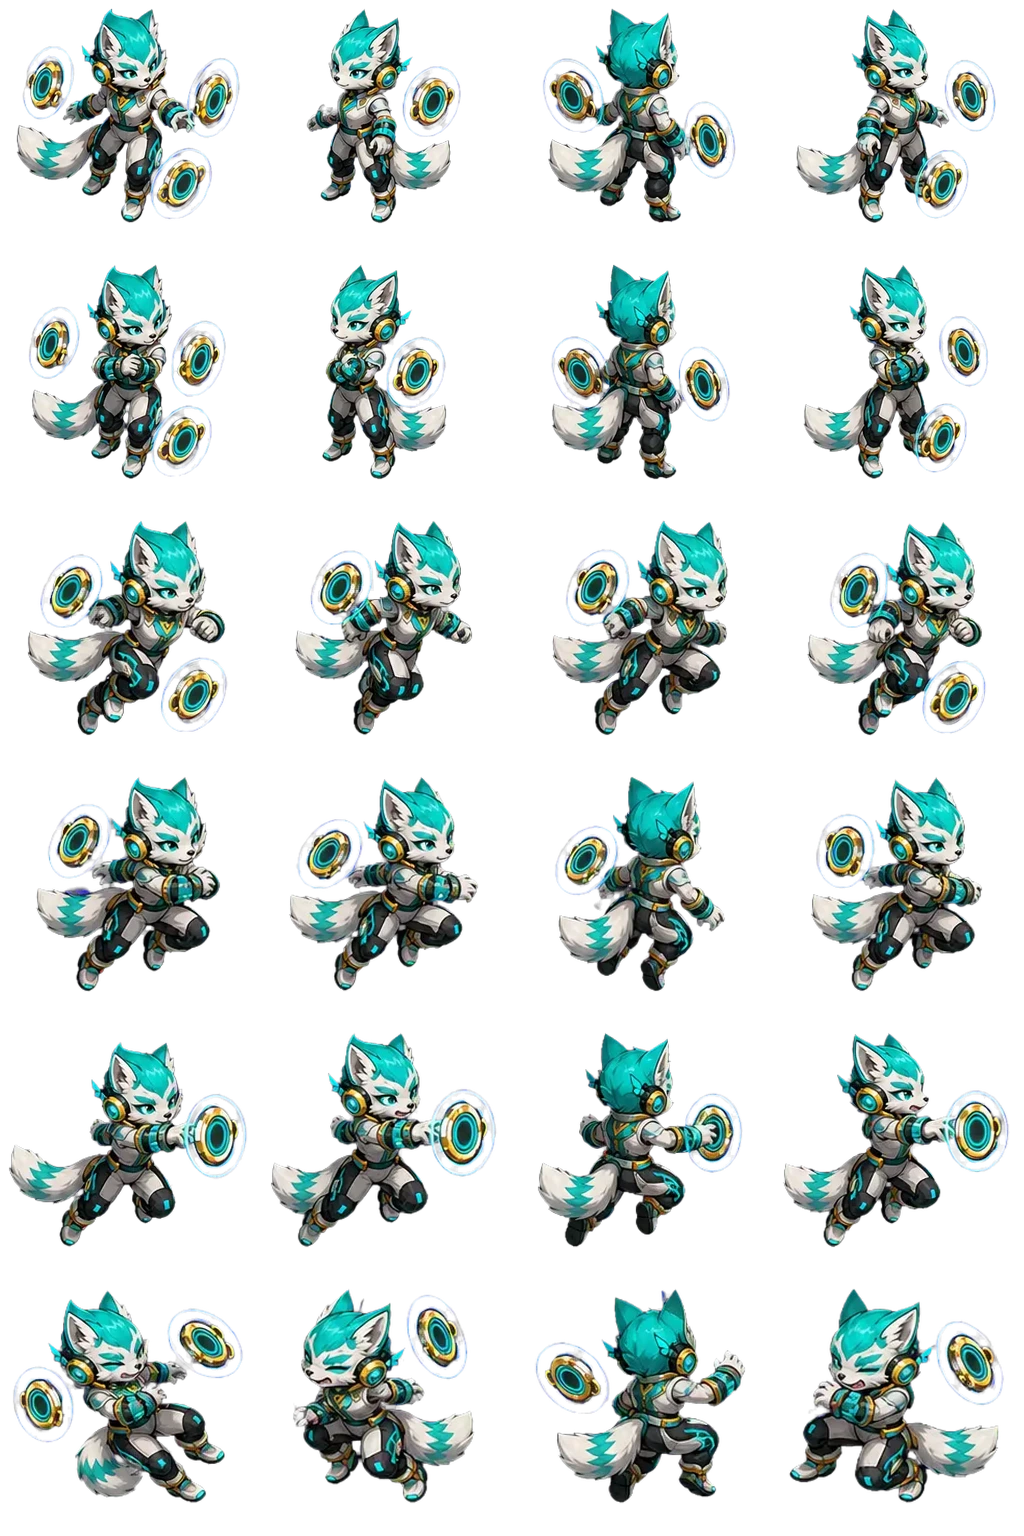
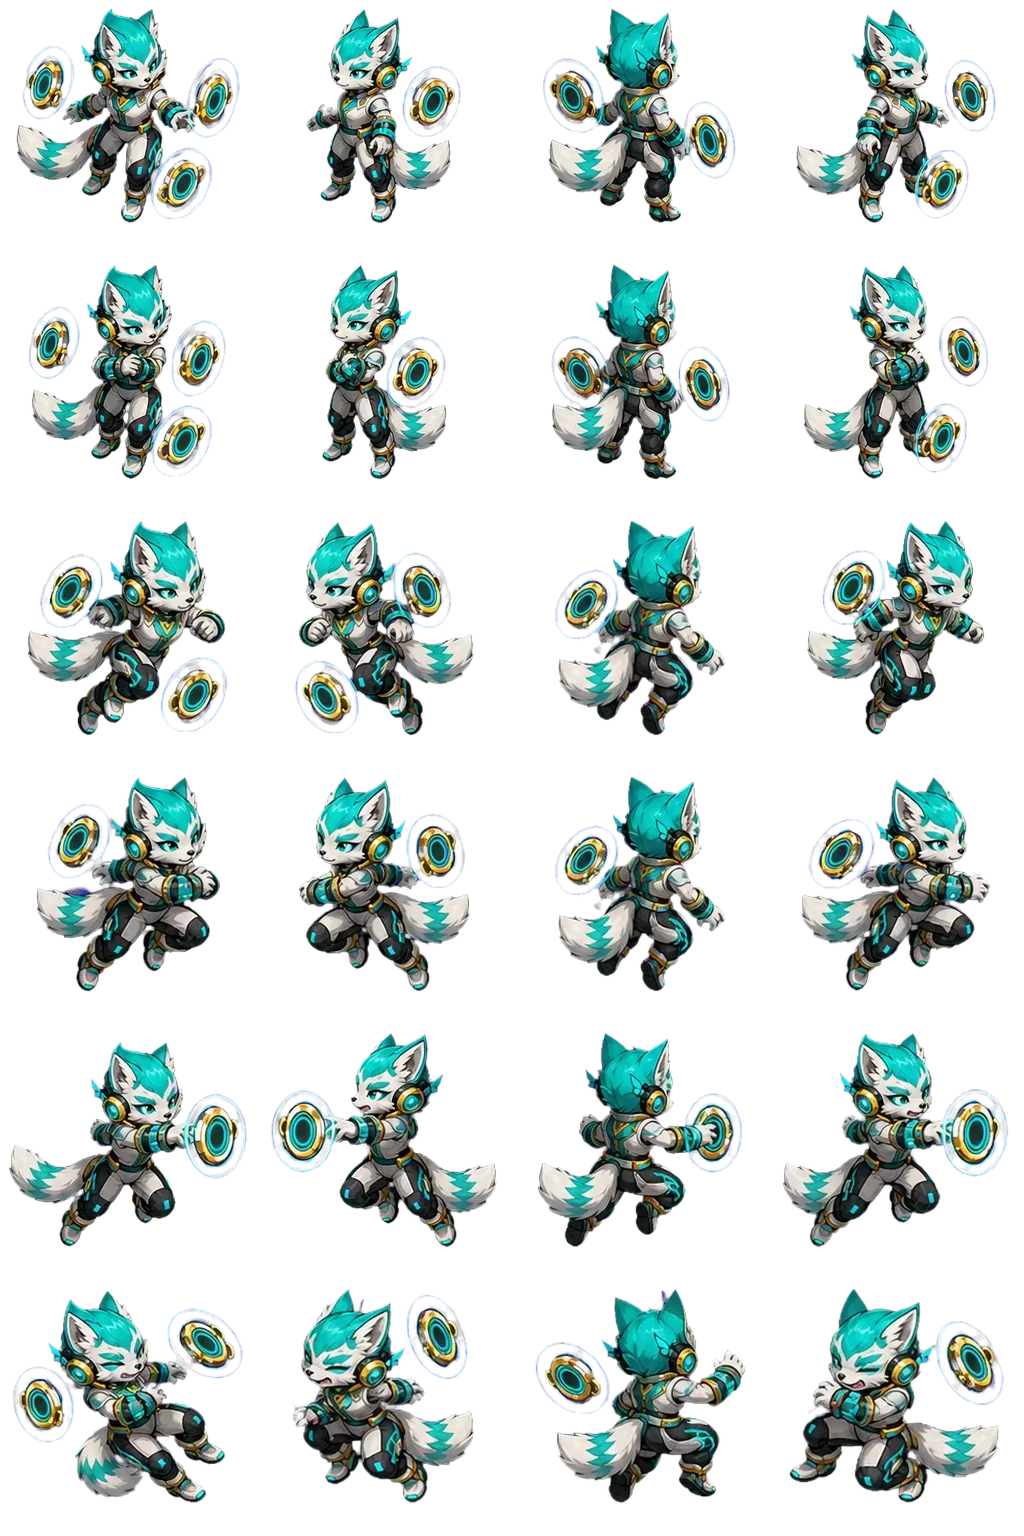
Correct Echo and Vesper direction semantics

diff --git a/lastlight/tooling/tests/test_motion_atlas_tool.py b/lastlight/tooling/tests/test_motion_atlas_tool.py
@@ -1,4 +1,5 @@
 import hashlib
+import json
 import tempfile
 import unittest
 from pathlib import Path
@@ -55,6 +56,9 @@ def atlas_record(root, rows, touching=False):
         "output": {"path": "assets/output.webp", "pixelSha256": "0" * 64, "width": 1024, "height": rows * 256},
         "directions": list(tool.DIRECTIONS),
         "states": states,
+        "sourceSlots": [[0, 1, 2, 3] for _row in range(rows)],
+        "sourceRows": {},
+        "flipX": [],
         "anchor": [.5, .875],
     }
 
@@ -100,6 +104,55 @@ class MotionAtlasNormalizationTests(unittest.TestCase):
             atlas = atlas_record(root, 6, touching=True)
             with self.assertRaisesRegex(tool.MotionAtlasError, "touching"):
                 tool.build_atlas(root, atlas, NORMALIZATION)
+
+    def test_source_slot_overrides_reorder_semantics_without_moving_rows(self):
+        with tempfile.TemporaryDirectory() as directory:
+            root = Path(directory)
+            atlas = atlas_record(root, 5)
+            atlas["sourceSlots"][2] = [0, 3, 2, 1]
+            output, frames, _segmentation = tool.build_atlas(root, atlas, NORMALIZATION)
+            west = output.crop((256, 2 * 256, 512, 3 * 256))
+            east = output.crop((3 * 256, 2 * 256, 4 * 256, 3 * 256))
+            source_west = (30 + 2 * 25, 40 + 1 * 40, 210 - 2 * 20)
+            source_east = (30 + 2 * 25, 40 + 3 * 40, 210 - 2 * 20)
+            self.assertIn(source_east, {pixel[:3] for pixel in west.get_flattened_data() if pixel[3] == 255})
+            self.assertIn(source_west, {pixel[:3] for pixel in east.get_flattened_data() if pixel[3] == 255})
+            self.assertEqual(frames[2 * 4 + 1]["sourceSlot"], 3)
+            self.assertEqual(frames[2 * 4 + 3]["sourceSlot"], 1)
+
+    def test_source_row_reuse_and_mirroring_are_explicit_and_deterministic(self):
+        with tempfile.TemporaryDirectory() as directory:
+            root = Path(directory)
+            atlas = atlas_record(root, 5)
+            atlas["sourceRows"]["pose-1.north"] = 3
+            atlas["flipX"].append("pose-1.west")
+            output, frames, _segmentation = tool.build_atlas(root, atlas, NORMALIZATION)
+            north = output.crop((2 * 256, 1 * 256, 3 * 256, 2 * 256))
+            reused_color = (30 + 3 * 25, 40 + 2 * 40, 210 - 3 * 20)
+            self.assertIn(reused_color, {pixel[:3] for pixel in north.get_flattened_data() if pixel[3] == 255})
+            self.assertEqual(frames[1 * 4 + 2]["sourceRow"], 3)
+            self.assertEqual(frames[1 * 4 + 1]["flipX"], True)
+
+    def test_manifest_rejects_incomplete_or_duplicate_source_slot_maps(self):
+        manifest_path = Path(__file__).resolve().parents[1] / "motion-atlas-manifest.json"
+        manifest = json.loads(manifest_path.read_text(encoding="utf-8"))
+        manifest["atlases"][0]["sourceSlots"][0] = [0, 1, 1, 3]
+        with self.assertRaisesRegex(tool.MotionAtlasError, "permutation"):
+            tool.validate_manifest(manifest)
+
+    def test_production_direction_overrides_pin_echo_and_vesper_semantics(self):
+        manifest_path = Path(__file__).resolve().parents[1] / "motion-atlas-manifest.json"
+        manifest = json.loads(manifest_path.read_text(encoding="utf-8"))
+        atlases = {atlas["id"]: atlas for atlas in manifest["atlases"]}
+        echo = atlases["echo"]
+        self.assertEqual(echo["sourceSlots"][2], [0, 3, 2, 1])
+        self.assertEqual(echo["sourceRows"], {"run-a.north": 3})
+        self.assertEqual(echo["flipX"], ["run-a.west", "run-b.west", "action.west"])
+        vesper = atlases["vesper"]
+        self.assertEqual(vesper["sourceSlots"][0], [0, 3, 2, 1])
+        self.assertEqual(vesper["sourceSlots"][1], [0, 3, 2, 1])
+        self.assertEqual(vesper["sourceSlots"][3], [0, 3, 2, 1])
+        self.assertEqual(vesper["flipX"], ["run-a.west", "run-b.west", "action.west", "hurt-down.west"])
 
     def test_webp_encoding_is_repeatable_and_preserves_alpha_gutters(self):
         with tempfile.TemporaryDirectory() as directory:

diff --git a/lastlight/tooling/motion_atlas_tool.py b/lastlight/tooling/motion_atlas_tool.py
@@ -94,7 +94,7 @@ def validate_manifest(manifest):
     ids, sources, outputs, runtime_keys = set(), set(), set(), set()
     for index, atlas in enumerate(atlases):
         label = f"manifest.atlases[{index}]"
-        exact(atlas, ["id", "kind", "source", "output", "rows", "directions", "states", "anchor"], label)
+        exact(atlas, ["id", "kind", "source", "output", "rows", "directions", "states", "sourceSlots", "sourceRows", "flipX", "anchor"], label)
         fail(isinstance(atlas["id"], str) and atlas["id"].replace("-", "").isalnum() and atlas["id"] == atlas["id"].lower(), f"{label}.id is invalid")
         fail(atlas["kind"] in ["specialist", "enemy", "boss"], f"{label}.kind is invalid")
         fail(isinstance(atlas["rows"], int) and atlas["rows"] in [5, 6], f"{label}.rows must be 5 or 6")
@@ -102,6 +102,16 @@ def validate_manifest(manifest):
         states = atlas["states"]
         fail(isinstance(states, list) and len(states) == atlas["rows"] and len(set(states)) == len(states), f"{label}.states must uniquely name every row")
         fail(all(isinstance(state, str) and state and state == state.lower() for state in states), f"{label}.states are invalid")
+        source_slots = atlas["sourceSlots"]
+        fail(isinstance(source_slots, list) and len(source_slots) == atlas["rows"], f"{label}.sourceSlots must map every physical row")
+        for row, slots in enumerate(source_slots):
+            fail(isinstance(slots, list) and sorted(slots) == [0, 1, 2, 3], f"{label}.sourceSlots[{row}] must be a permutation of source slots 0..3")
+        frame_ids = {f"{state}.{direction}" for state in states for direction in DIRECTIONS}
+        source_rows = atlas["sourceRows"]
+        fail(isinstance(source_rows, dict) and set(source_rows).issubset(frame_ids), f"{label}.sourceRows contains an unknown frame id")
+        fail(all(isinstance(row, int) and 0 <= row < atlas["rows"] for row in source_rows.values()), f"{label}.sourceRows values must name a physical source row")
+        flip_x = atlas["flipX"]
+        fail(isinstance(flip_x, list) and len(flip_x) == len(set(flip_x)) and set(flip_x).issubset(frame_ids), f"{label}.flipX must contain unique known frame ids")
         anchor = atlas["anchor"]
         fail(isinstance(anchor, list) and len(anchor) == 2 and all(isinstance(v, (int, float)) and 0 < v < 1 for v in anchor), f"{label}.anchor is invalid")
 
@@ -297,7 +307,7 @@ def validate_output(image, atlas, normalization):
     cell_size, bleed = normalization["cellSize"], normalization["bleed"]
     fail(image.mode == "RGBA" and image.size == (atlas["output"]["width"], atlas["output"]["height"]), f"{atlas['id']}: output dimensions/mode are invalid")
     frames = []
-    hashes = set()
+    hashes = {}
     for row, state in enumerate(atlas["states"]):
         for column, direction in enumerate(atlas["directions"]):
             cell = image.crop((column * cell_size, row * cell_size, (column + 1) * cell_size, (row + 1) * cell_size))
@@ -306,9 +316,12 @@ def validate_output(image, atlas, normalization):
             gutters = [bounds[0], bounds[1], cell_size - bounds[2], cell_size - bounds[3]]
             fail(min(gutters) >= bleed, f"{atlas['id']}: {state}.{direction} violates the {bleed}px transparent bleed: {gutters}")
             digest = pixel_sha256(cell)
-            fail(digest not in hashes, f"{atlas['id']}: duplicate normalized pose at {state}.{direction}")
-            hashes.add(digest)
-            frames.append({"id": f"{state}.{direction}", "cell": [column, row], "alphaBounds": list(bounds), "pixelSha256": digest})
+            frame_id = f"{state}.{direction}"
+            if digest in hashes:
+                prior = hashes[digest]
+                fail(frame_id in atlas["sourceRows"] or prior in atlas["sourceRows"], f"{atlas['id']}: duplicate normalized pose at {frame_id}")
+            hashes[digest] = frame_id
+            frames.append({"id": frame_id, "cell": [column, row], "alphaBounds": list(bounds), "pixelSha256": digest})
     return frames
 
 
@@ -328,11 +341,16 @@ def build_atlas(root, atlas, normalization):
     source_frames = []
     for row, state in enumerate(atlas["states"]):
         for column, direction in enumerate(atlas["directions"]):
-            cell_key = (column, row)
+            frame_id = f"{state}.{direction}"
+            source_column = atlas["sourceSlots"][row][column]
+            source_row = atlas["sourceRows"].get(frame_id, row)
+            cell_key = (source_column, source_row)
             pose, source_bbox = extract_pose(source, components, assignments[cell_key])
+            if frame_id in atlas["flipX"]:
+                pose = pose.transpose(Image.Transpose.FLIP_LEFT_RIGHT)
             normalized = fit_pose(pose, cell_size, normalization["bleed"], atlas["anchor"])
             output.alpha_composite(normalized, (column * cell_size, row * cell_size))
-            source_frames.append({"id": f"{state}.{direction}", "sourceBounds": source_bbox, "componentCount": len(assignments[cell_key])})
+            source_frames.append({"id": frame_id, "sourceRow": source_row, "sourceSlot": source_column, "flipX": frame_id in atlas["flipX"], "sourceBounds": source_bbox, "componentCount": len(assignments[cell_key])})
     frames = validate_output(output, atlas, normalization)
     for frame, source_frame in zip(frames, source_frames):
         frame.update(source_frame)
@@ -378,9 +396,11 @@ def inspect(root, manifest, compare_outputs, check_theme=True):
         verify_theme(root, manifest)
     reports, built, runtime_bytes = [], [], 0
     for atlas in manifest["atlases"]:
-        image, frames, segmentation = build_atlas(root, atlas, manifest["normalization"])
+        image, source_frames, segmentation = build_atlas(root, atlas, manifest["normalization"])
         encoded, runtime_image = encode_runtime_webp(image, manifest["normalization"]["webp"])
         frames = validate_output(runtime_image, atlas, manifest["normalization"])
+        for frame, source_frame in zip(frames, source_frames):
+            frame.update({key: source_frame[key] for key in ["sourceRow", "sourceSlot", "flipX", "sourceBounds", "componentCount"]})
         digest = pixel_sha256(runtime_image)
         runtime_bytes += len(encoded)
         if compare_outputs:

diff --git a/lastlight/tooling/README.md b/lastlight/tooling/README.md
@@ -197,6 +197,18 @@ and placed at the canonical foot anchor `(128, 224)`. Every side of every cell
 must retain at least eight fully transparent pixels. If two neighboring poses
 touch into one alpha component, the build fails instead of guessing.
 
+Generated source slots are not assumed to face the direction suggested by their
+position. Every physical row declares a `sourceSlots` permutation for output
+South/West/North/East. Narrow exceptions can use `sourceRows` to reuse a clear
+pose from another physical row and `flipX` when the source has no genuine
+opposite-facing side pose. These overrides are frame-id validated and included
+in the QA report. Echo borrows run-b's clear rear silhouette for run-a north;
+its missing west poses and Vesper's missing west pairs are mirrored explicitly.
+
+Fang's `action.south` pose is intentionally airborne. Its leap silhouette is
+accepted as authored action art and must not be "corrected" into a standing or
+idle pose during anchor QA.
+
 Five-row sources (Spitter, Bomber, and Beachhead) normalize to 1024 × 1280.
 Six-row sources normalize to 1024 × 1536. Runtime WebP uses quality 92 with
 exact alpha. Verification intentionally pins decoded RGBA rather than container